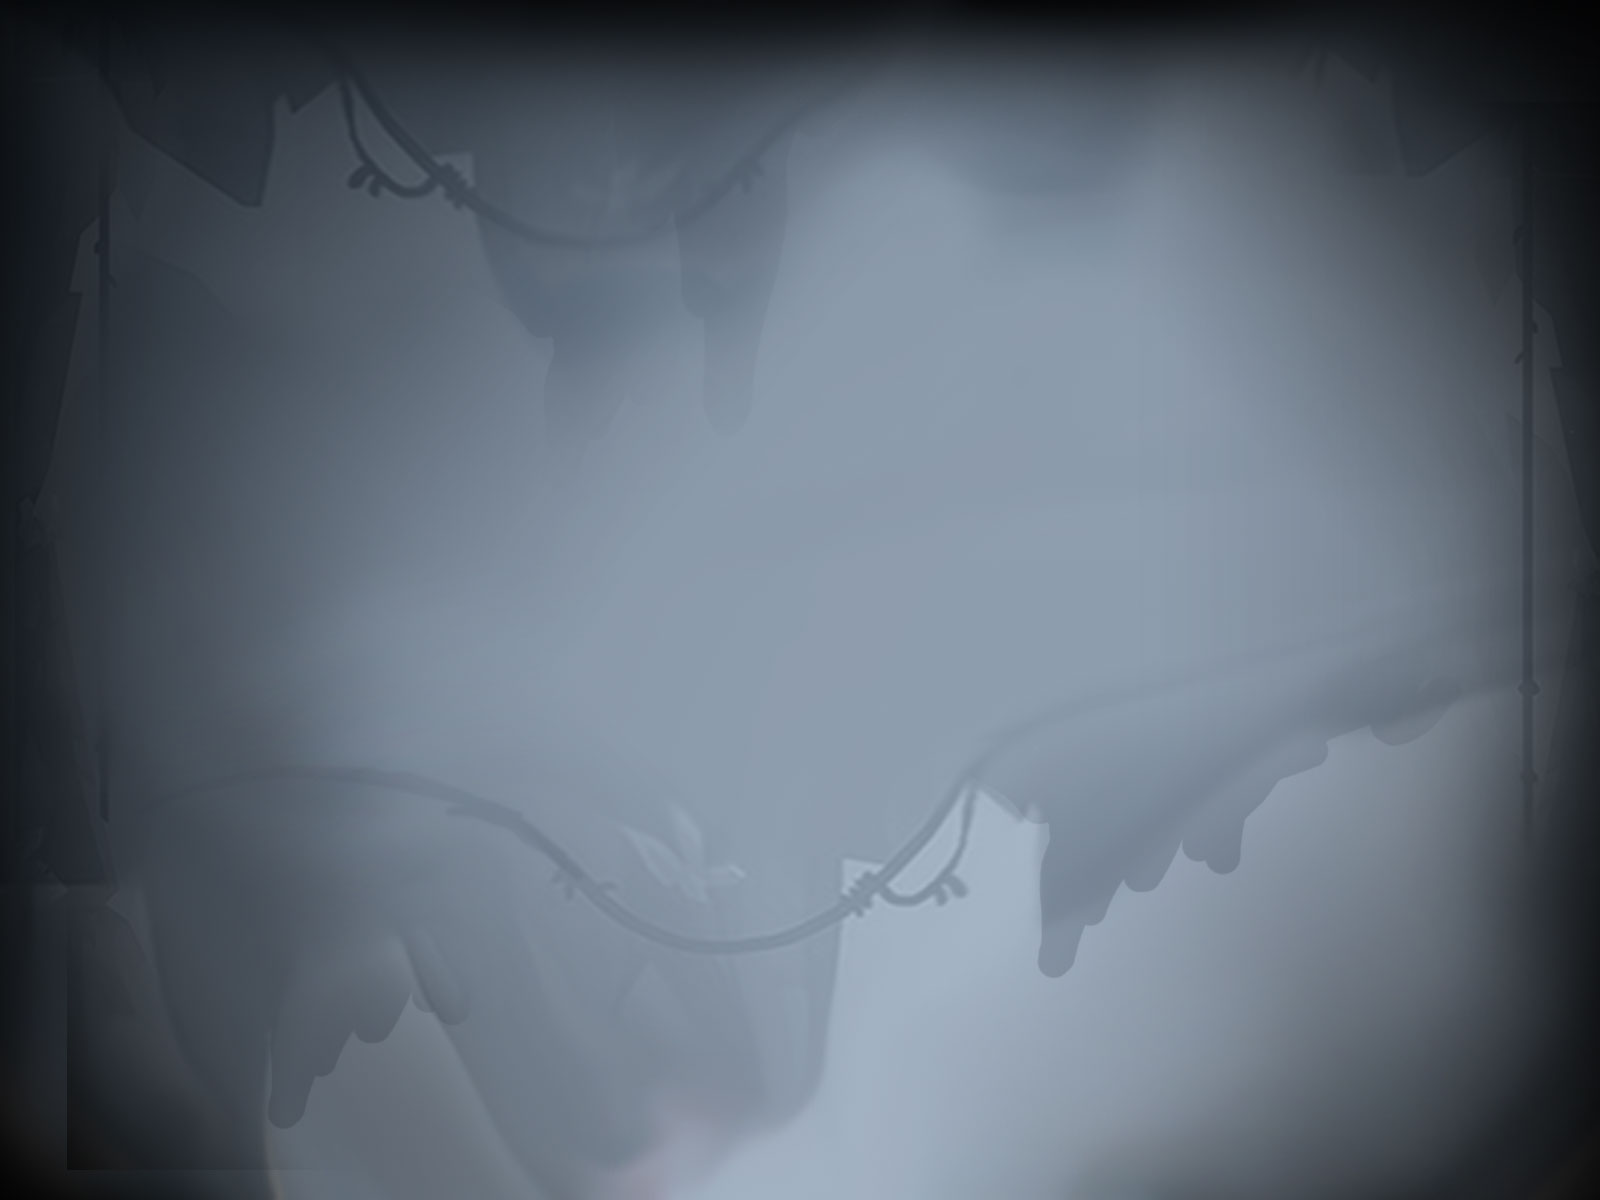
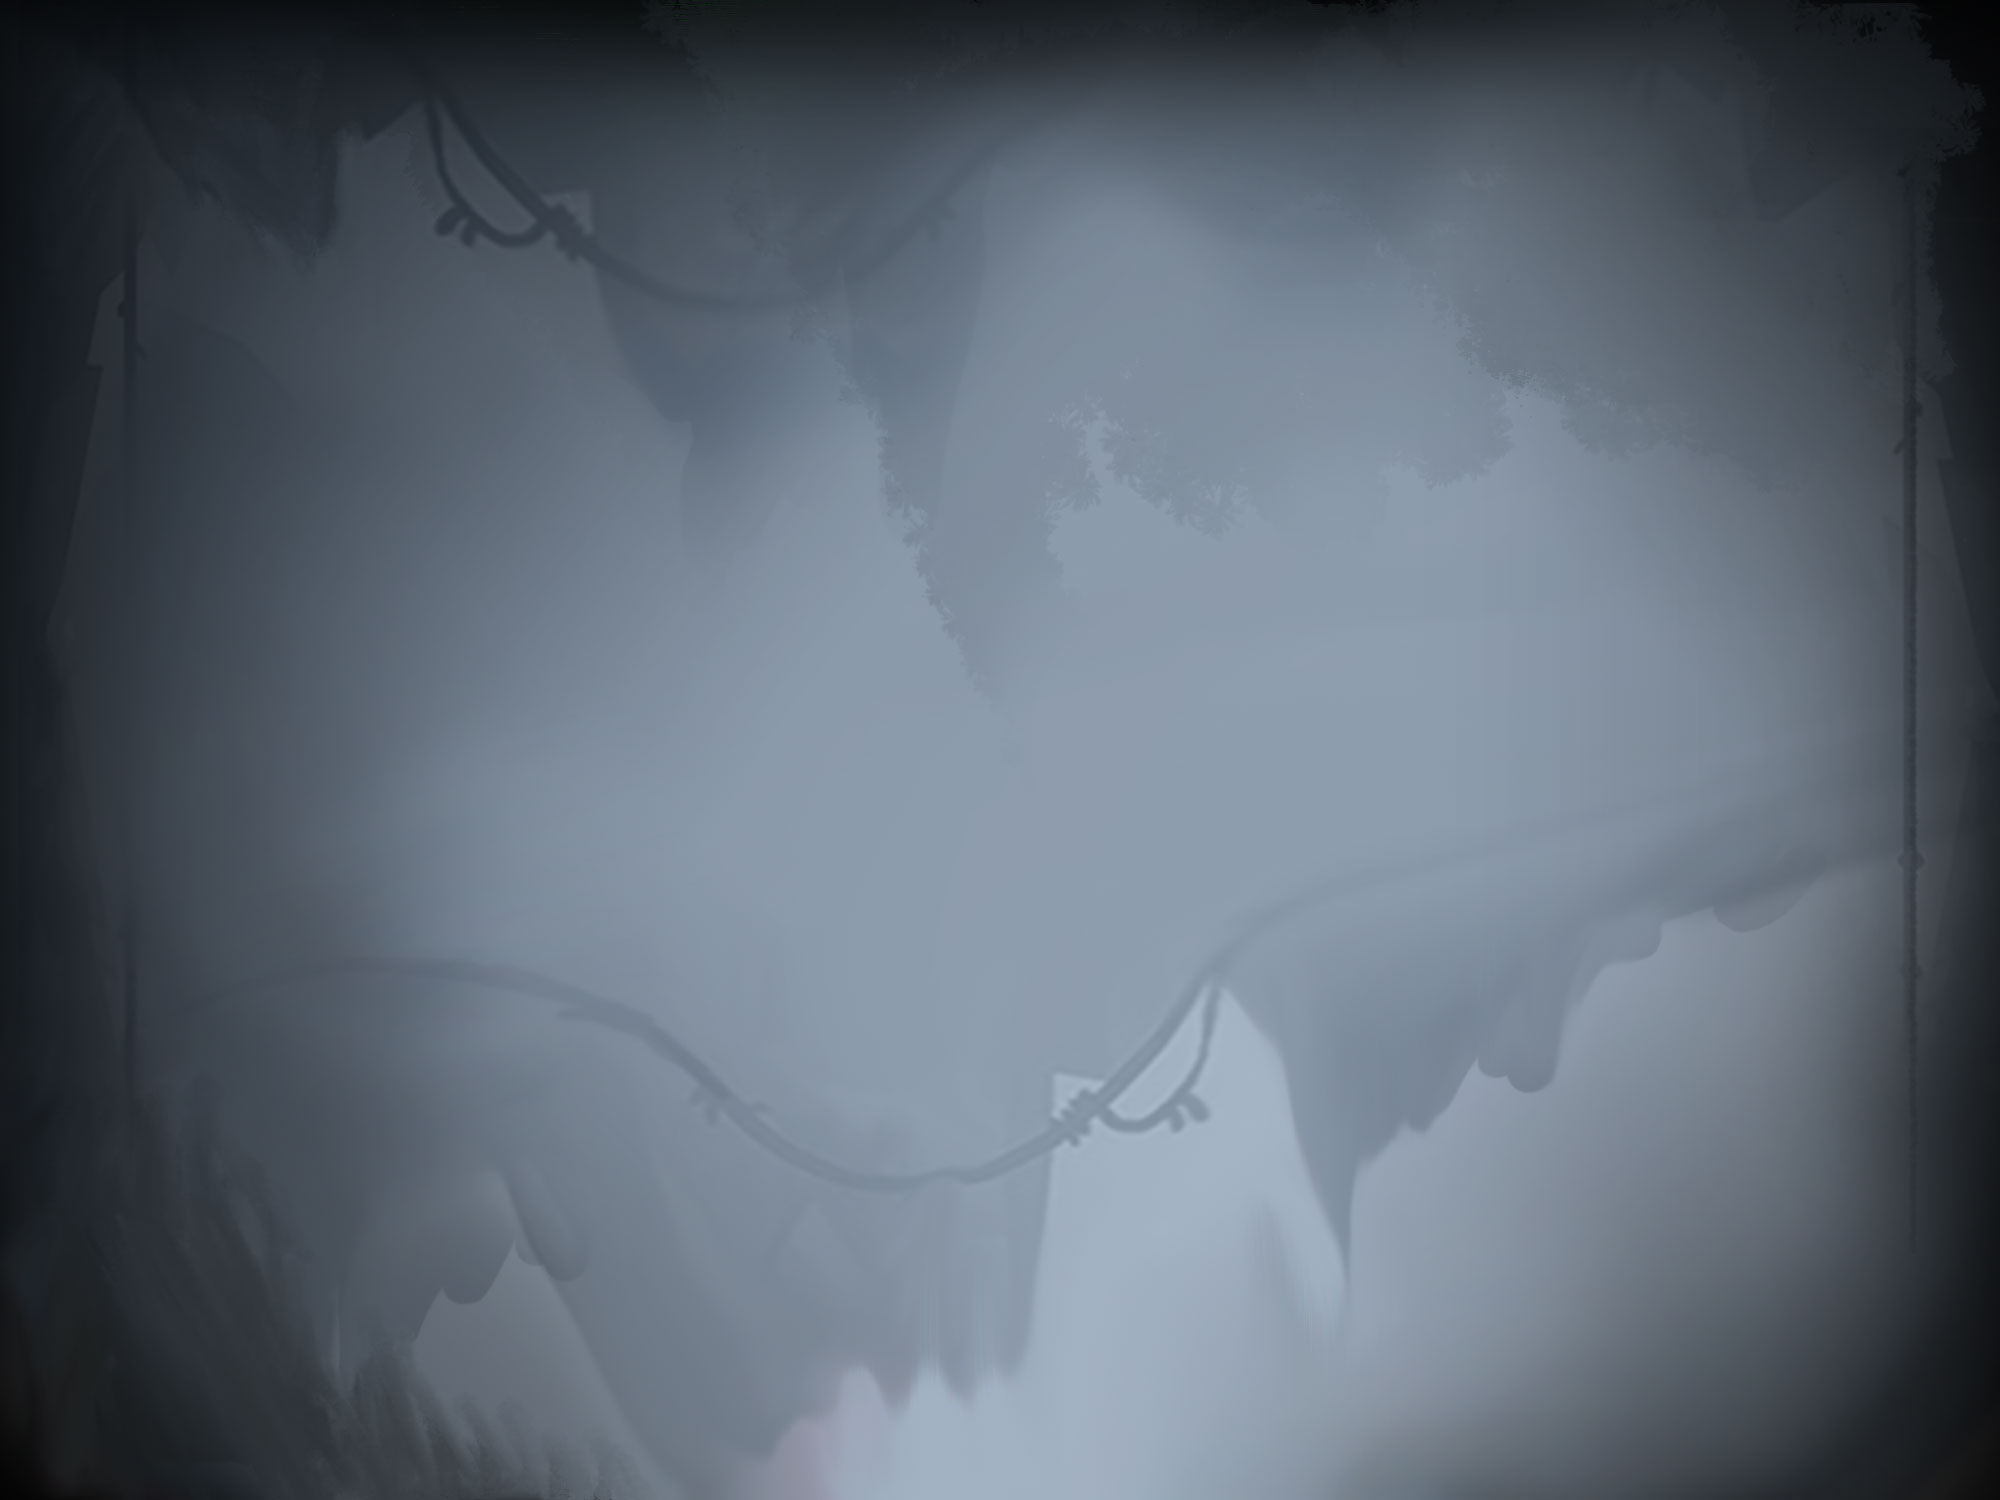
use sync event for debug

diff --git a/web/js/screens/Preloader.js b/web/js/screens/Preloader.js
@@ -2,13 +2,11 @@ define('PreloaderScreen', [
 	'createjs'
 ], function(createjs){
 	var assetManifest,
-		logo,
-		container,
-		progress;
+		container;
 
-	var PRELOAD_WIDTH = 1000,
-		PRELOAD_HEIGHT = 500,
-		CONTENT_WIDTH = 400;
+	var CONTENT_WIDTH = 2100,
+		CONTENT_HEIGHT = 1050,
+		HEIGHT_OFFSET = 150;
 
 	var Preloader = function() {
 
@@ -22,10 +20,10 @@ define('PreloaderScreen', [
 		this.canvas.width = window.innerWidth;
 		this.canvas.height = window.innerHeight;
 
-		var scale = Math.min(this.canvas.width / PRELOAD_WIDTH, this.canvas.height / PRELOAD_HEIGHT);
+		var scale = Math.min(this.canvas.width / CONTENT_WIDTH, this.canvas.height / CONTENT_HEIGHT);
 		container.scaleX = scale;
 		container.scaleY = scale;
-		container.x = (this.canvas.width - PRELOAD_WIDTH * scale) / 2;
+		container.x = (this.canvas.width - CONTENT_WIDTH * scale) / 2;
 		this.stage.update();
 	};
 
@@ -43,54 +41,72 @@ define('PreloaderScreen', [
 			self.resize();
 		};
 
-		progress = new createjs.Shape(); // Remember to define the progress variable at the top!
-		progress.graphics.beginStroke("#C33").drawRect(0, 0, CONTENT_WIDTH, 20);
-		progress.x = (PRELOAD_WIDTH - CONTENT_WIDTH) / 2;
-		progress.y = 400;
-		container.addChild(progress);
-
-		var preloaderPreloader = new createjs.LoadQueue(true);
+		var assets = {},
+			preloaderPreloader = new createjs.LoadQueue(true);
 		preloaderPreloader.loadFile('data/assets.json');
-		preloaderPreloader.loadFile('img/logo.jpg');
+		preloaderPreloader.loadFile('img/background.jpg');
+		preloaderPreloader.loadFile('img/stage_bottom.png');
+		preloaderPreloader.loadFile('img/preloader/startscreen_maedchen.png');
+		preloaderPreloader.loadFile('img/preloader/startscreen_monster.png');
+		preloaderPreloader.loadFile('img/preloader/startscreen_button.png');
 		preloaderPreloader.on('fileload', function (event) {
 			if ("data/assets.json" === event.item.id) {
 				assetManifest = event.result;
-			} else if ("img/logo.jpg" === event.item.id) {
-				var bitmap = new createjs.Bitmap(event.result);
-				bitmap.y = 100;
-				bitmap.x = (PRELOAD_WIDTH - CONTENT_WIDTH) / 2;
-
-				bitmap.scaleX = CONTENT_WIDTH / bitmap.image.width;
-				bitmap.scaleY = 250 /bitmap.image.height;
-				container.addChild(bitmap);
-				self.stage.update();
+			} else {
+				assets[event.item.id] = event.result;
 			}
 		});
 
-		preloaderPreloader.on('complete', function (event) {
-			self.assets = {};
-
-			self.totalAssets = assetManifest.length;
-			self.loadedAssets = 0;
-
-			//call preload, and install soundjs as plugin
-			self.loader = new createjs.LoadQueue();
-			self.loader.installPlugin(createjs.SoundJS);
-
-			//define callbacks
-			self.loader.on('fileload', function(event){
-				self.handleFileLoad(event);
-			});
-
-			self.loader.on('complete', function() {
-				self.handleComplete();
-			});
-
-			//load file from manifest
-			self.loader.loadManifest(assetManifest);
+		preloaderPreloader.on('complete', function () {
+			self.drawScreen(assets);
+			self.loadAssets();
 		});
 
 		preloaderPreloader.load();
+	};
+
+	Preloader.prototype.drawScreen = function (assets) {
+		var bitmap;
+
+		bitmap = new createjs.Bitmap(assets['img/background.jpg']);
+		bitmap.scaleX = CONTENT_WIDTH / bitmap.image.width;
+		container.addChild(bitmap);
+
+		bitmap = new createjs.Bitmap(assets['img/stage_bottom.png']);
+		bitmap.y = CONTENT_HEIGHT - bitmap.image.height + HEIGHT_OFFSET;
+		container.addChild(bitmap);
+
+		bitmap = new createjs.Bitmap(assets['img/preloader/startscreen_maedchen.png']);
+		bitmap.y = CONTENT_HEIGHT - bitmap.image.height + 17;
+		container.addChild(bitmap);
+
+		bitmap = new createjs.Bitmap(assets['img/preloader/startscreen_monster.png']);
+		bitmap.y = CONTENT_HEIGHT - bitmap.image.height + 13;
+		bitmap.x = CONTENT_WIDTH - bitmap.image.width;
+		container.addChild(bitmap);
+
+		this.stage.update();
+	};
+
+	Preloader.prototype.loadAssets = function () {
+		var self = this;
+		this.assets = {};
+
+		//call preload, and install soundjs as plugin
+		this.loader = new createjs.LoadQueue();
+		this.loader.installPlugin(createjs.SoundJS);
+
+		//define callbacks
+		this.loader.on('fileload', function(event){
+			self.handleFileLoad(event);
+		});
+
+		this.loader.on('complete', function() {
+			self.handleComplete();
+		});
+
+		//load file from manifest
+		this.loader.loadManifest(assetManifest);
 	};
 
 	Preloader.prototype.exit = function () {
@@ -104,19 +120,61 @@ define('PreloaderScreen', [
 
 	Preloader.prototype.handleFileLoad = function (event) {
 		this.assets[event.item.id] = event.result;
-
-		this.loadedAssets++;
-
-		progress.graphics.clear();
-		// Draw the progress bar
-		progress.graphics.beginFill("#C33").drawRect(0, 0, CONTENT_WIDTH * this.loadedAssets / this.totalAssets, 20);
-		// Draw the outline again.
-		progress.graphics.beginStroke("#C33").drawRect(0, 0, CONTENT_WIDTH, 20);
-		this.stage.update();
 	};
 
 	Preloader.prototype.handleComplete = function () {
-		this.exit();
+		var self = this,
+			bitmap,
+			glow,
+			pressed;
+
+		glow = new createjs.Bitmap(this.assets['play_hover']);
+		glow.y = (CONTENT_HEIGHT - glow.image.height) / 2;
+		glow.x = (CONTENT_WIDTH - glow.image.width) / 2;
+		glow.visible = false;
+		container.addChild(glow);
+
+		bitmap = new createjs.Bitmap(this.assets['play']);
+		bitmap.y = (CONTENT_HEIGHT - bitmap.image.height) / 2;
+		bitmap.x = (CONTENT_WIDTH - bitmap.image.width) / 2;
+		container.addChild(bitmap);
+
+		pressed = new createjs.Bitmap(this.assets['play_pressed']);
+		pressed.y = (CONTENT_HEIGHT - pressed.image.height) / 2;
+		pressed.x = (CONTENT_WIDTH - pressed.image.width) / 2;
+		pressed.visible = false;
+		container.addChild(pressed);
+
+		this.stage.enableMouseOver(20);
+
+		this.stage.update();
+
+		bitmap.addEventListener('mousedown', function () {
+			pressed.visible = true;
+			self.stage.update();
+		});
+
+		bitmap.addEventListener('mouseover', function () {
+			glow.visible = true;
+			self.stage.update();
+		});
+
+		bitmap.addEventListener('mouseout', function () {
+			glow.visible = false;
+			pressed.visible = false;
+			self.stage.update();
+		});
+
+		bitmap.addEventListener('click', function () {
+			self.exit();
+		});
+	};
+
+	Preloader.prototype.exit = function() {
+		this.stage.enableMouseOver(0);
+		this.stage.removeChild(container);
+		this.stage.update();
+		this.onExit(this.assets);
 	};
 
 	return Preloader;

diff --git a/web/js/app.js b/web/js/app.js
@@ -28,22 +28,12 @@ define('App', [
 		preloader.registerOnExit(function(assets) {
 			console.log('exit preloader');
 			self.assets = assets;
-			self.gotoMenu();
+			self.gotoCharacter();
 		});
 		preloader.enter(this.canvas, this.stage);
 
 		socket = new Socket();
 		socket.initialize();
-	};
-
-	App.prototype.gotoMenu = function () {
-		var self = this,
-			menu = new MenuScreen();
-		menu.registerOnExit(function () {
-			console.log('exit menu');
-			self.gotoCharacter();
-		});
-		menu.enter(this.canvas, this.stage, this.assets);
 	};
 
 	App.prototype.gotoCharacter = function () {

diff --git a/web/js/screens/Game.js b/web/js/screens/Game.js
@@ -106,7 +106,7 @@ define('GameScreen', [
 
 	Game.prototype.exit = function() {
 		this.onExit();
-	}
+	};
 
 	return Game;
 
